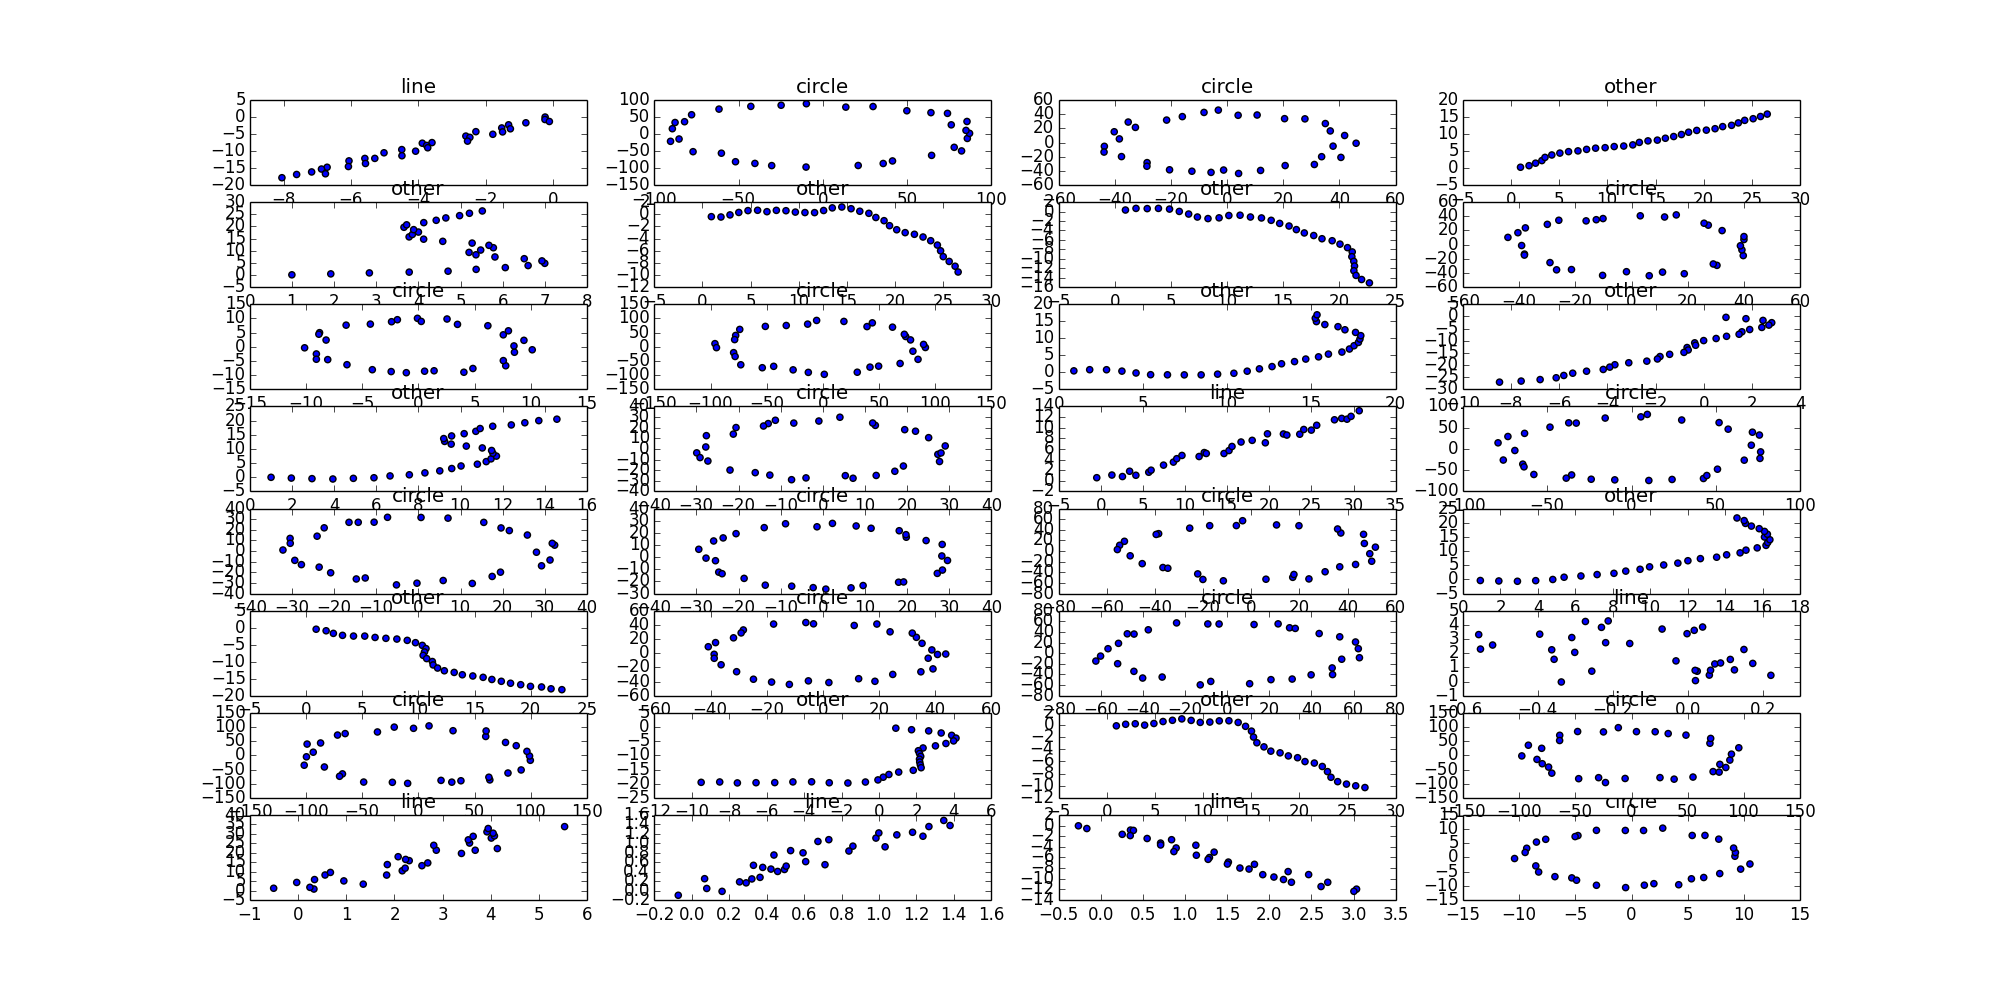
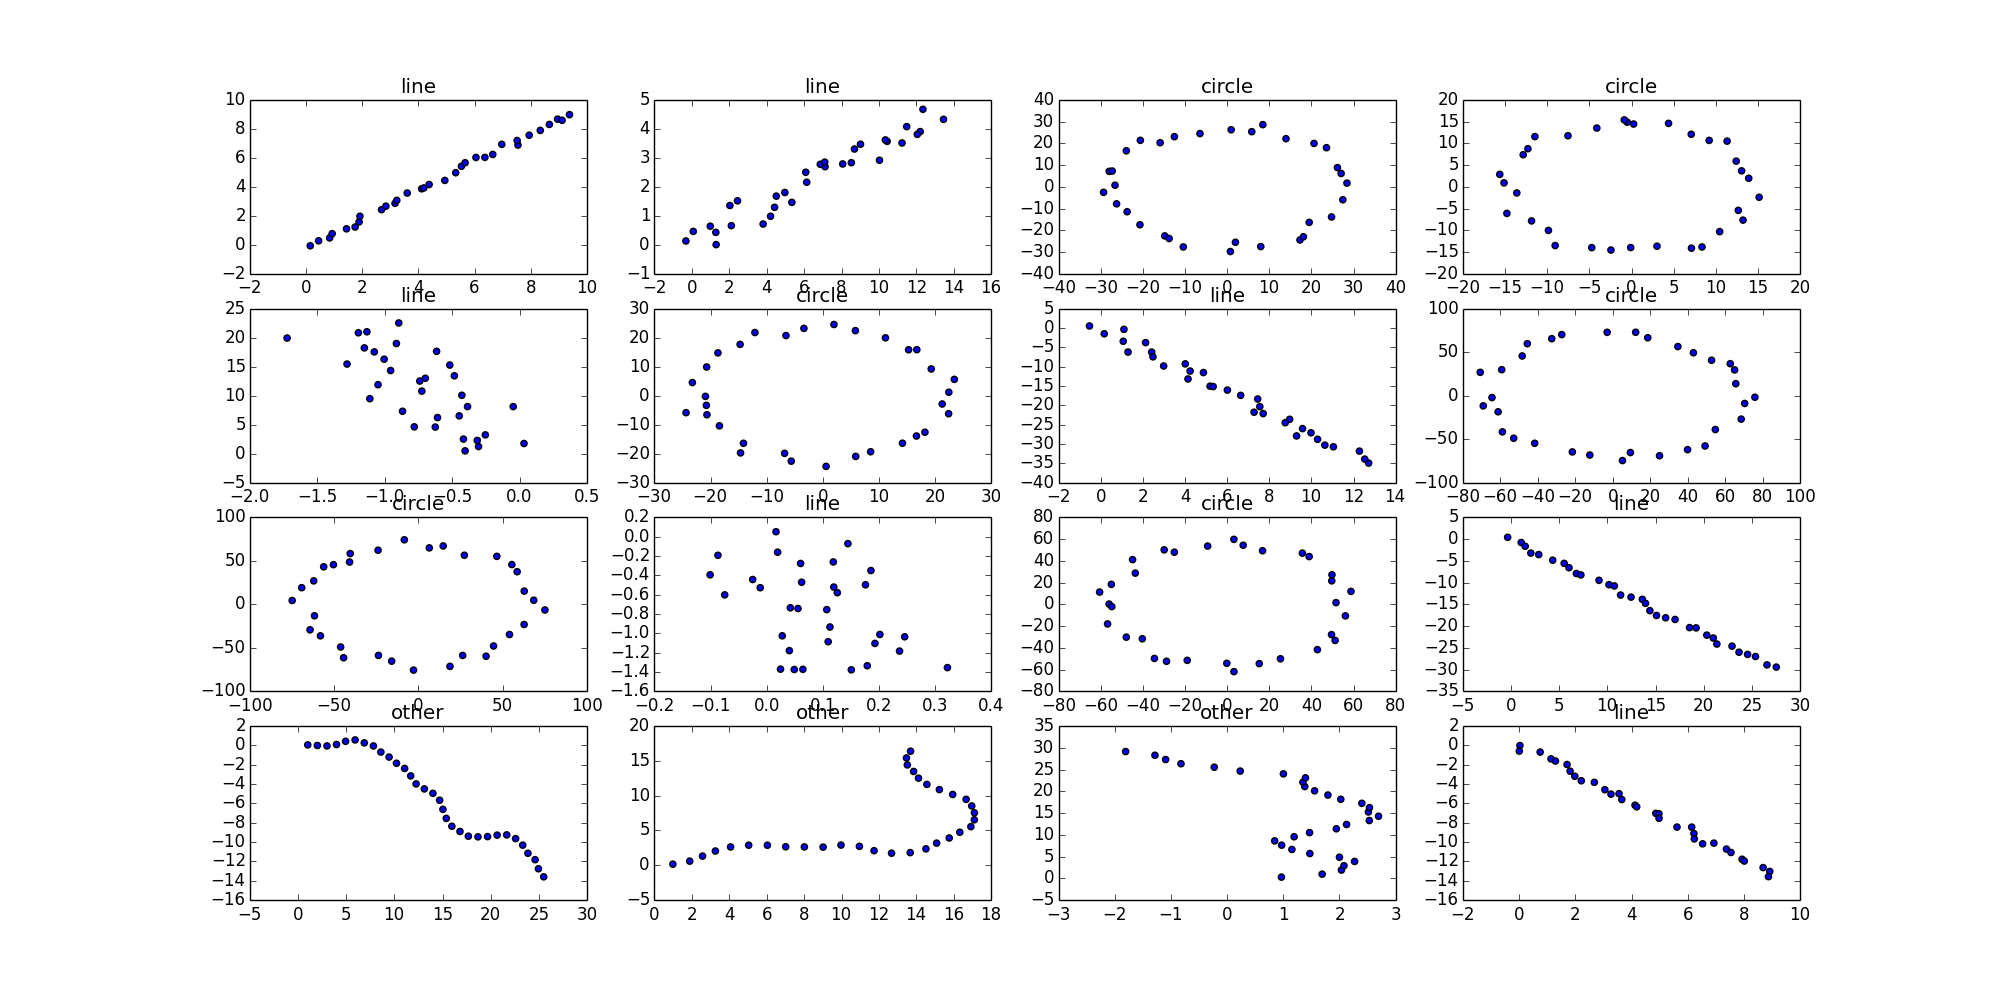
Edits

diff --git a/tensorflow/examples/xla/gesture/gesture.py b/tensorflow/examples/xla/gesture/gesture.py
@@ -77,7 +77,7 @@ def build_set():
 def viz(data, filename):
   """Build a set of data and vizualize it."""
   columns = 4
-  max_rows_to_display = 8
+  max_rows_to_display = 4
   rows = min(max_rows_to_display,len(data)/columns)
   idx = 0
   pylab.figure(figsize=(20,10))
@@ -210,7 +210,7 @@ def main(unused_argv):
   data_list = build_set()
   gesture = GestureModel(data_list)
   with tf.Session() as sess:
-    #viz(data_list, "examples.png")
+    viz(data_list, "examples.png")
     gesture.buildModel()
     if args.cmd == "train":
       gesture.trainModel(sess)

diff --git a/tensorflow/examples/xla/gesture/gesture_simple.cc b/tensorflow/examples/xla/gesture/gesture_simple.cc
@@ -27,10 +27,9 @@ constexpr int N=32;
 int main(int argc, char** argv) {
   Eigen::ThreadPool tp(2);  // Size the thread pool as appropriate.
   Eigen::ThreadPoolDevice device(&tp, tp.NumThreads());
-
   Examples::Gesture gesture;
   gesture.set_thread_pool(&device);
-float* vals = gesture.arg0_data();
+  float* vals = gesture.arg0_data();
   std::fill(vals,vals+BATCH_SIZE*N*2,0.f);
   float theta=0.f;
   int idx=0;

diff --git a/tensorflow/examples/xla/gesture/README.md b/tensorflow/examples/xla/gesture/README.md
@@ -1,7 +1,19 @@
 # Gesture recognition with XLA AOT compilation
 
-## Prerequisites
+## Why?
 
+* TensorFlow libraries are large.
+* Size is key on mobile devices
+* XLA can replace standard nodes with compiled code
+
+## What we will do
+
+* Define a simple model
+* Compile that model to a standalone library
+* Test it
+* Talk about using it on android 
+
+## Prerequisites
 
 Currently you need to build TensorFlow from source to use XLA. XLA must
 be enabled in ./configure:
@@ -15,18 +27,36 @@ $ bazel-bin/tensorflow/tools/pip_package/build_pip_package /tmp/tensorflow_pkg
 ```
 For this project, I am going to use bazel heavily, because it is much easier for XLA AOT compilation. 
 
+## Basic steps
 
-## The gesture model
+*Make a model*
+
+1. Write the model and add build rule (`gesture.py`, `BUILD`)
+2. Train the model
+3. Dump checkpoint and graph (`gesture.ckpt`, `gesture.pb`)
+4. Freeze the model (`gesture_frozen.pb`)
+
+*Build compact AOTC code*
+
+1. Define proto `gesture.config.pbtxt`
+2. Define `tf_library` build rule in `BUILD`
+3. Define `gesture_simple.cc` and `BUILD` rule
+4. Build and run `gesture_simple`
+
+
+
+## 1 Make a model
 
 The main idea is that we have a sequence of mouse or touch drags that form a path. We want to recognize if the path is a circle, line or something else. For simplicity, we train on synthetic data (noisy circles, lines and random paths). They look like this
 
 ![Images of example paths](examples.png)
 
+
+### 1(i) Write a model
+
 The details of the model are specified in `gesture.py`. Each model is given a class number 0 is circle, 1 is line, and 2 is other. The model is a 1D convolutional Neural network, which is probably crazy overkill for this application.
 
-## Training the model
-
-### Preparing your model code for XLA
+### 1(i) Preparing your model code for XLA
 
 There are two things that you need to be careful of in building your model. First, you must explicitly name input placeholders and the inference op.
 That is because later we'll need to refer to them by name in the xla compile rules to make a AOT compilation.
@@ -46,7 +76,7 @@ To save the model checkpoint and graph you follow a pattern like this:
     tf.train.write_graph(sess.graph_def, os.getcwd(), "gesture.pb", False)
 ```
 
-### Training the model
+### 1(ii) Training the model
 
 Now we are going to train the model:
 ```
@@ -58,8 +88,16 @@ bazel  build -c opt gesture
 ../../../../bazel-bin/tensorflow/examples/xla/gesture/gesture eval
 ```
 
+#### Accuracy
 
-### Freezing the model
+Make sure you see a relatively good training accuracy i.e.
+```
+training accuracy: 0.961589
+eval. accuracy:    0.960069
+```
+If not, just run it again. This is not a super robust model, it is intended for illustration.
+
+### 1(iv) Freezing the model
 
 Now, the only thing left to do to have a fully baked model that we can use is to freeze the checkpoint. This bakes all variable values from the checkpoint into constants that are used to replace the variables in a new graph. This graph is written to `gesture_frozen.pb`. This can be done with the
 `freeze_graph.py` command:
@@ -74,8 +112,110 @@ bazel build -c opt //tensorflow/python/tools:freeze_graph
 
 (Don't forget --input_binary to indicate protos are binary)
 
-### Building an XLA binary
+## 2 Build compact AOTC code
+
+To compile a library for XLA AOT, you will need to define the inputs and outputs to the model. In this case we know there is only one input "features" which is shape 
+`(BATCH_SIZE, N, 2)` or `(256, 32, 2)`. In addition, we know it is type float. In addition we know the output is "out_class" and type integer with shape `(256, 1)`. 
+
+### 2(i) Define inputs and outputs
+
+In `gesture.config.pbtxt` we do
+```
+# Input has 3 dimensions
+feed {
+  id { node_name: "features" }
+  shape {
+    dim { size: 256 }
+    dim { size: 32 }
+    dim { size: 2 }
+    
+  }
+}
+# Fetch the output class
+fetch {
+  id { node_name: "out_class" }
+}
+```
+
+### 2(ii) Define tf_library build rule
+
+```
+# Use the tf_library macro to compile your graph into executable code.
+tf_library(
+    name = "gesturelib",
+    cpp_class = "Examples::Gesture",
+    graph = "gesture_frozen.pb",
+    config = "gesture.config.pbtxt",
+)
+```
+
+### 2(iii) Define gesture_simple.cc and BUILD rule
+
+#### Includes
+
+We now add boilder plate includes
+
+```
+\#define EIGEN_USE_THREADS
+\#define EIGEN_USE_CUSTOM_THREAD_POOL
+\#include "tensorflow/examples/xla/gesture/gesturelib.h"
+```
+
+
+The generated header has a class named `Examples::Gesture`.
+
+#### Thread pool 
+
+Now we setup the thread pool and instantiate the AOT compiled library
+```cpp
+int main(int argc,char* argv[]){
+  Eigen::ThreadPool tp(2);  // Size the thread pool as appropriate.
+  Eigen::ThreadPoolDevice device(&tp, tp.NumThreads());
+  Examples::Gesture gesture;
+  gesture.set_thread_pool(&device);
+  ...
+```
+
+#### BUILD rule
+
+Now we finally setup the build rule.
+```
+# The executable code generated by tf_library can then be linked into your code.
+cc_binary(
+    name = "gesture_simple",
+    srcs = [
+      "gesture_simple.cc",  # include test_graph_tfmatmul.h to access the generated header
+    ],
+    deps = [
+      ":gesturelib",  # link in the generated object file
+      "//third_party/eigen3",
+    ],
+    includes = [
+      "gesture.h"
+    ] ,
+    linkopts = [     "-lpthread"]
+)
+```
+
+### 2(iv) Build and run `gesture_simple`
+
 Now we can build our binary
 ```sh
-bazel build --config=opt //tensorflow/examples/xla/gesture:gesture
+bazel build -c opt //tensorflow/examples/xla/gesture:gesture_simple
 ```
+Once that is done, run the binary
+```
+../../../../bazel-bin/tensorflow/examples/xla/gesture/gesture_simple
+```
+which should produce
+```
+test 0 is 0
+test 1 is 2
+test 2 is 1
+```
+which means (circle, misc, other) which is as is expected
+
+### Bonus
+
+To use Android, you need to setup WORKSPACE in your bazel root. Uncomment
+the examples.
